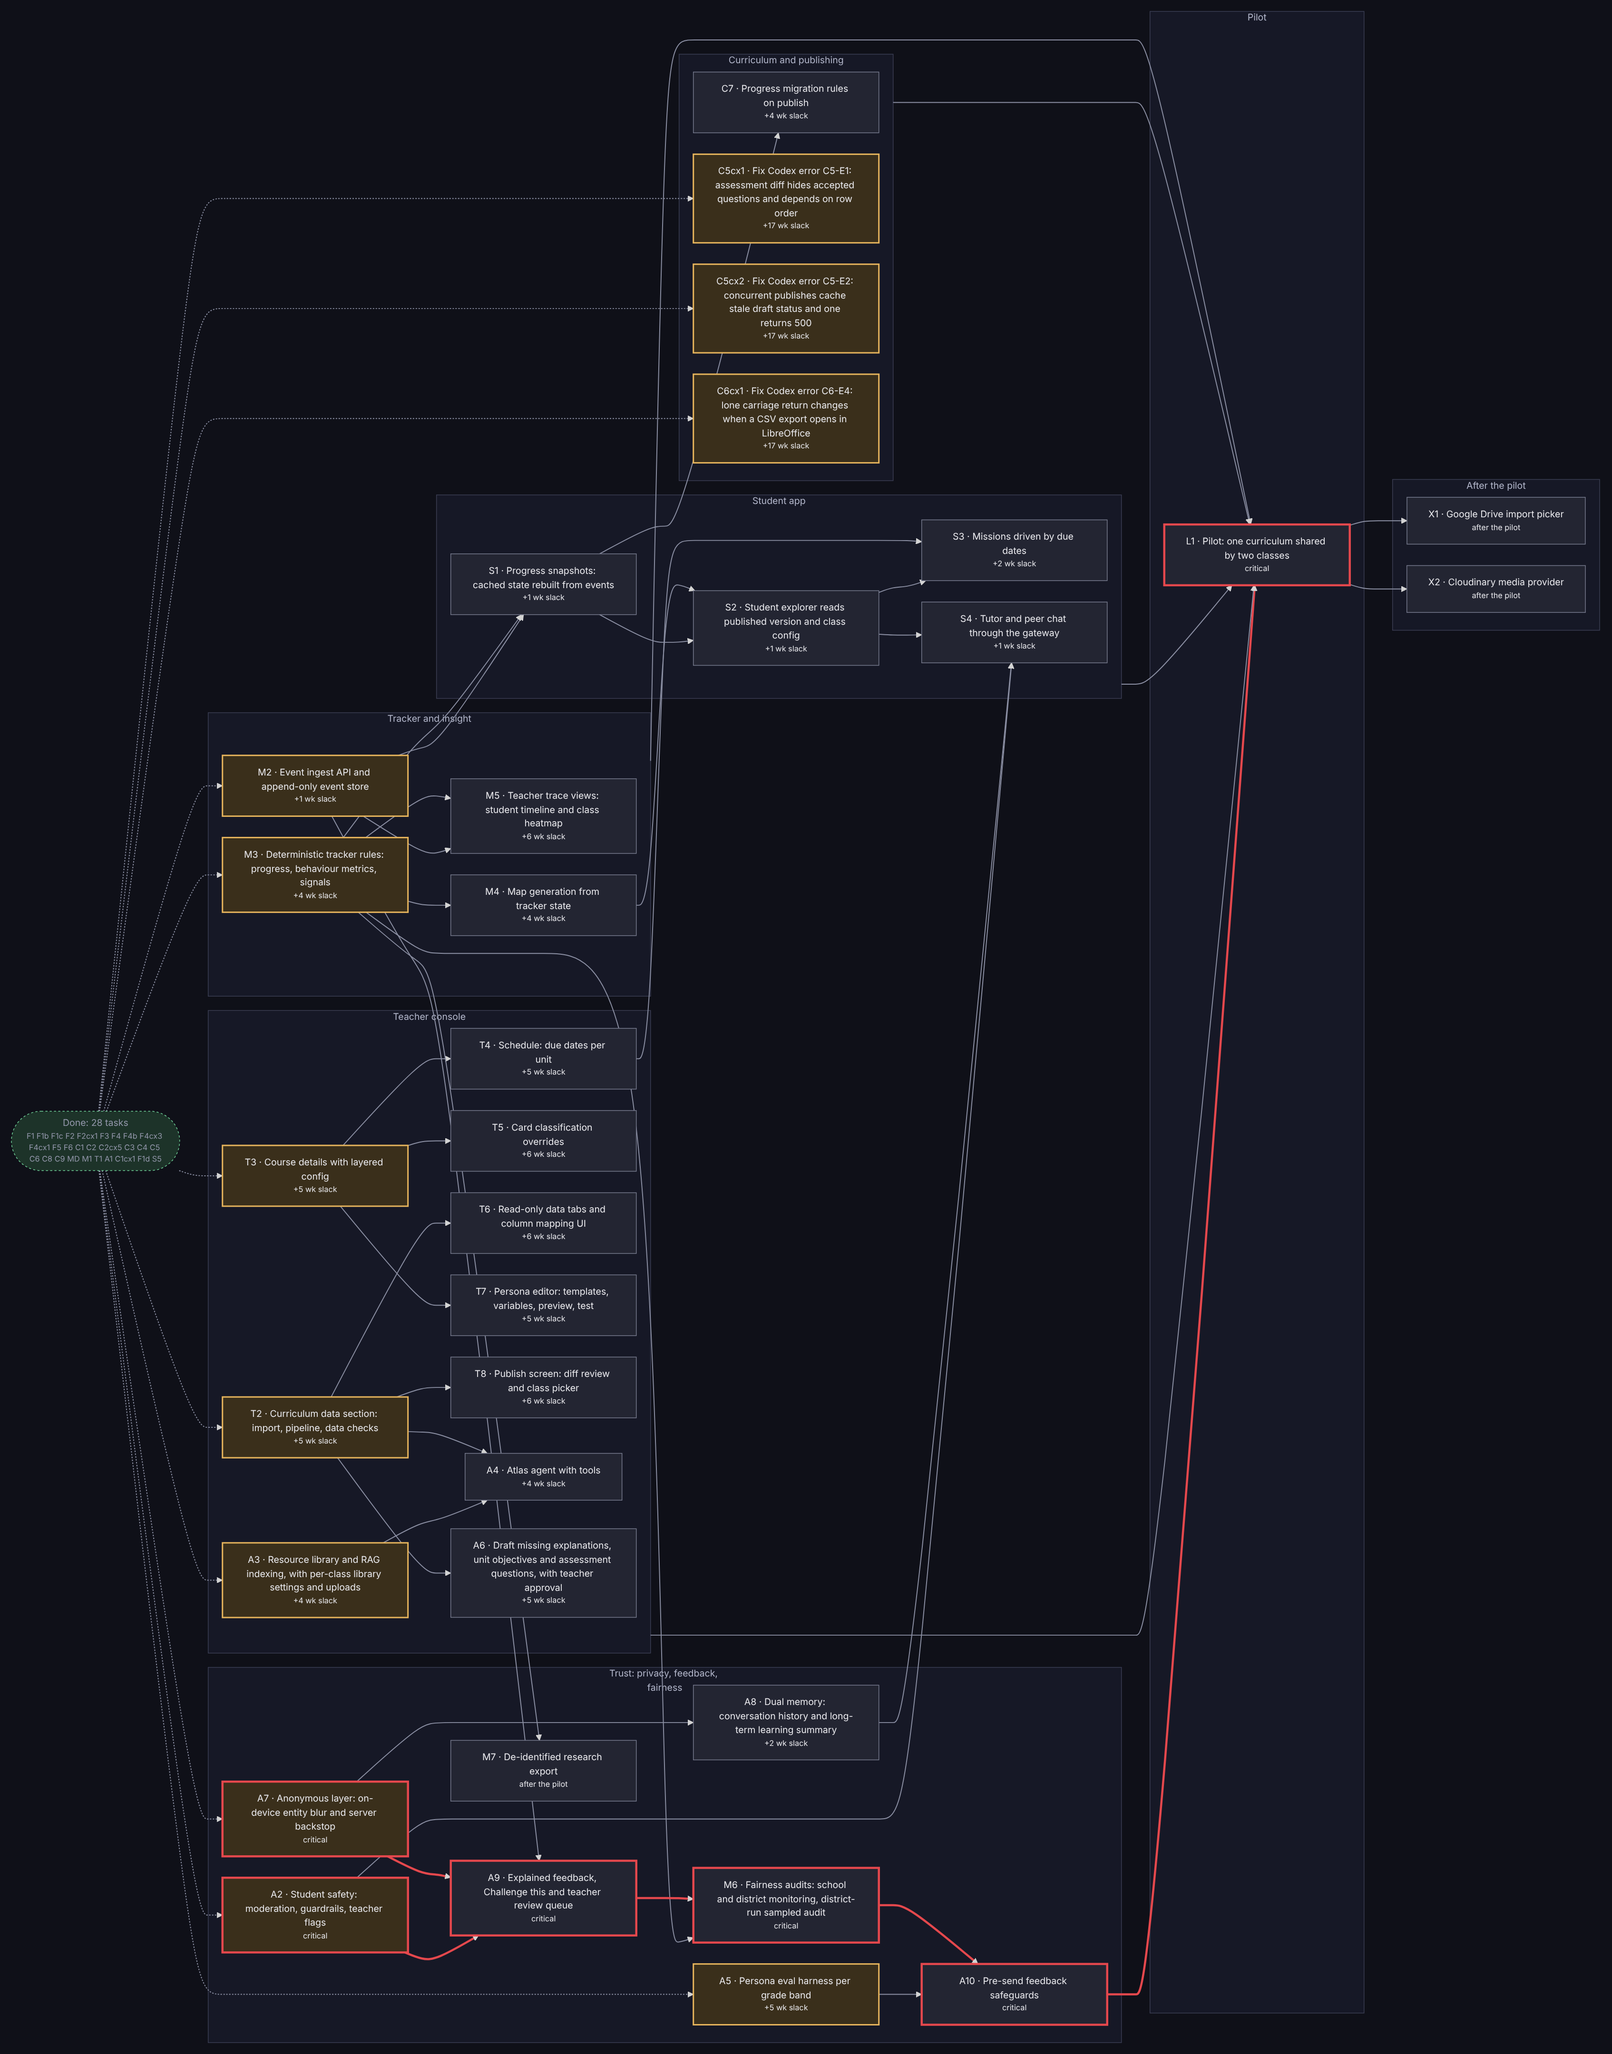
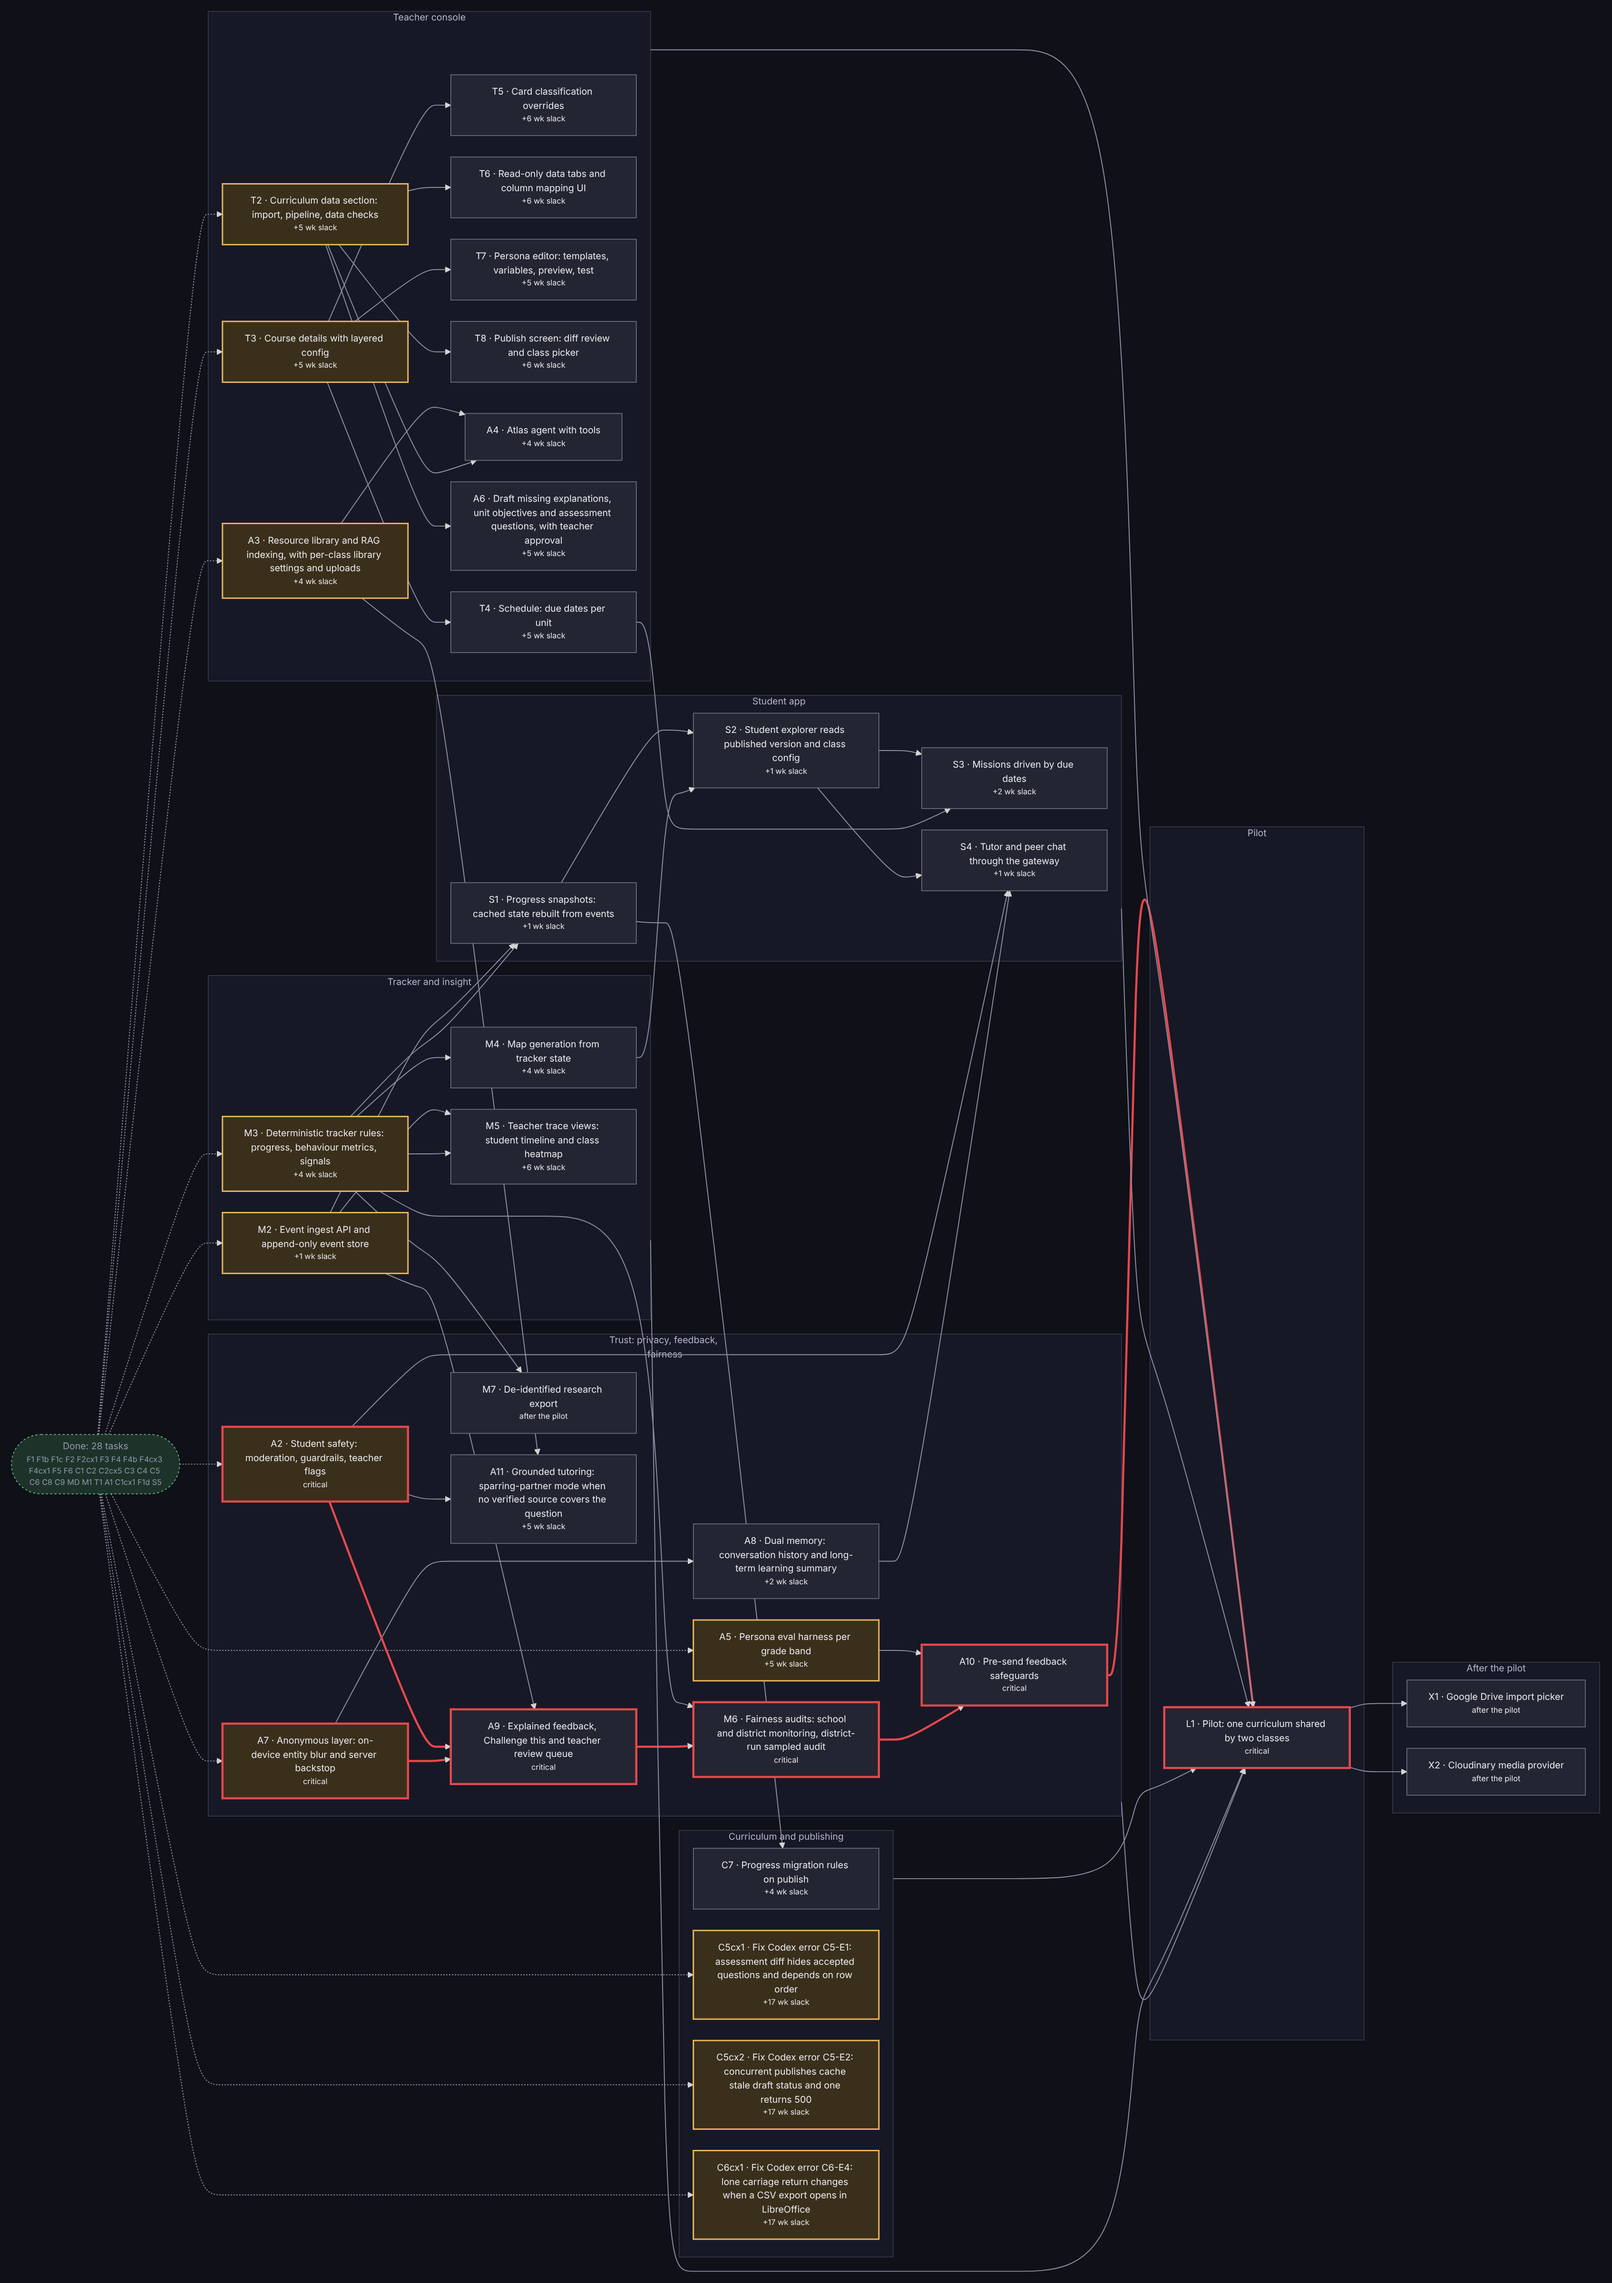
docs: blueprint and plan map reflect D31/D32 revisions, D35 and A11
Claude-Session: https://claude.ai/code/session_017xAqLcBw3ZrNAbTTGfVg5K

diff --git a/docs/idea-map-blueprint.html b/docs/idea-map-blueprint.html
@@ -170,10 +170,11 @@ select { font: 12px var(--font-body); color: var(--text); background: var(--surf
           <tr><td>Two memories (D28)</td><td>Short-term is the conversation. Long-term keeps misconceptions, what helped, pace and up to five interest categories, never feelings, family or health.</td></tr>
           <tr><td>Memory controls (D29)</td><td>Memory lasts while the student is enrolled. The student can see, delete or switch it off, and so can their teacher.</td></tr>
           <tr><td>Teacher ids on feedback (D30)</td><td>Teacher rulings and edits carry the teacher's pseudonymous id, so each teacher's examples weigh equally. Students never see it.</td></tr>
-          <tr><td>Teaching materials kept (D31)</td><td>Library documents and class uploads hold no student data, so the original files and passages are kept: updated or taken out of use, never deleted. A new embedding vendor re-indexes from the stored files.</td></tr>
-          <tr><td>Safety flags are alerts (D32)</td><td>Idea Map alerts staff; it is not the school's record. A flag is deleted with its transcript (90 days by default), or 30 days after it is resolved, whichever comes first.</td></tr>
+          <tr><td>Tiered library (D31)</td><td>Official shared materials go to a kept, versioned vault: updated or taken out of use, never deleted, and re-indexed from the stored files if the embedding vendor changes. Teachers' class uploads are disposable: archived, deleted, or deleted with their class.</td></tr>
+          <tr><td>Safety flags are alerts (D32)</td><td>Idea Map alerts staff; it is not the school's record. A flag is deleted with its transcript (90 days by default), or after the district's early-deletion window once resolved (default: deleted on day 31), whichever comes first.</td></tr>
           <tr><td>On-device name model (D33)</td><td>An ML name-recognition model on the device finds names and places from sentence context, so no class roster ever reaches a student device. Pattern rules still catch contact details.</td></tr>
           <tr><td>Teacher-approved evals (D34)</td><td>Persona evals are judged against replies teachers have approved, a living set of evidence. How approvals follow template versions is still open.</td></tr>
+          <tr><td>Sparring partner, not oracle (D35)</td><td>No internet. When the class's verified materials don't cover a question, Ms. Ivy states no facts of her own; she says so and guides the student's reasoning with questions instead.</td></tr>
         </tbody>
       </table></div>
     </div>
@@ -313,8 +314,8 @@ select { font: 12px var(--font-body); color: var(--text); background: var(--surf
           <tr><td>AI memory</td><td>Learning facts and up to five interest categories; the student can view, delete or turn it off</td></tr>
           <tr><td>Fairness and research</td><td>Audits by school and district; race audit run by the district; research on de-identified data only</td></tr>
           <tr><td>Transcripts</td><td>Stored redacted, retention set per district (default 90 days), visible to the class teacher</td></tr>
-          <tr><td>Safety flags</td><td>Alerts to the teacher and admin, not the school's record; deleted with the transcript or 30 days after resolution, whichever is first</td></tr>
-          <tr><td>Teaching materials</td><td>No student data; kept permanently, outside the student delete path</td></tr>
+          <tr><td>Safety flags</td><td>Alerts to the teacher and admin, not the school's record; deleted with the transcript, or after the district's early-deletion window once resolved (default day 31)</td></tr>
+          <tr><td>Teaching materials</td><td>Official vault kept permanently; class uploads kept with the class; both outside the student delete path</td></tr>
           <tr><td>Access</td><td>Admin, author, teacher and student roles; row-level security per org; audit log on config changes and publishes</td></tr>
           <tr><td>Sign-in</td><td>Google Workspace for Education, Clever or ClassLink; rosters imported from OneRoster CSV</td></tr>
         </tbody>
@@ -330,6 +331,7 @@ select { font: 12px var(--font-body); color: var(--text); background: var(--surf
           <tr><td>First school</td><td>Which sign-in and rostering provider, transcript retention period and hosting region?</td></tr>
           <tr><td>Embedding model</td><td>Which model the library search uses. Changing it later re-indexes from the stored originals, with no re-upload.</td></tr>
           <tr><td>Privacy layer</td><td>Check the design against the SoulSpeak paper; choose which on-device name model to use, and measure it on children's writing.</td></tr>
+          <tr><td>Verified sources</td><td>Should a teacher's class uploads ground the tutor's factual answers, or only the curriculum and the official vault?</td></tr>
           <tr><td>Eval approvals</td><td>How teacher-approved eval replies are tagged to persona template versions, so old approvals don't clash with new templates.</td></tr>
           <tr><td>Scale-out</td><td>Sign-in state and rate limits are per server process until the app runs on several servers.</td></tr>
         </tbody>
@@ -375,7 +377,7 @@ select { font: 12px var(--font-body); color: var(--text); background: var(--surf
 
 <script>
 const PLAN = {
- "snapshot": "2026-10-28 03:00 UTC",
+ "snapshot": "2026-10-28 03:30 UTC",
  "phases": [
   {
    "id": "F",
@@ -942,7 +944,8 @@ const PLAN = {
     "S5",
     "C5cx1",
     "C5cx2",
-    "C6cx1"
+    "C6cx1",
+    "A11"
    ],
    "status": "todo",
    "owner": null
@@ -1102,6 +1105,16 @@ const PLAN = {
    ],
    "status": "todo",
    "placeholder": true
+  },
+  {
+   "id": "A11",
+   "title": "Grounded tutoring: sparring-partner mode when no verified source covers the question",
+   "size": 1,
+   "deps": [
+    "A2",
+    "A3"
+   ],
+   "status": "todo"
   }
  ]
 };
@@ -1142,7 +1155,7 @@ show(startView);
 const NS = "http://www.w3.org/2000/svg";
 // Lanes group open work by what it delivers, in priority order (same as docs/PLAN.md).
 const LANES = [
-  ["Trust: privacy, feedback, fairness", ["A1", "A2", "A5", "A7", "A8", "A9", "A10", "M6", "M7"]],
+  ["Trust: privacy, feedback, fairness", ["A1", "A2", "A5", "A7", "A8", "A9", "A10", "A11", "M6", "M7"]],
   ["Tracker and insight", ["M1", "M2", "M3", "M4", "M5"]],
   ["Curriculum and publishing", ["F6", "C5", "C6", "C7"]],
   ["Teacher console", ["T1", "T2", "T3", "T4", "T5", "T6", "T7", "T8", "A3", "A4", "A6"]],

diff --git a/docs/PLAN.md b/docs/PLAN.md
@@ -113,6 +113,7 @@ flowchart LR
     A10["A10 · Pre-send feedback safeguards<br/><small>critical</small>"]
     M6["M6 · Fairness audits: school and district monitoring, district-run sampled audit<br/><small>critical</small>"]
     M7["M7 · De-identified research export<br/><small>after the pilot</small>"]
+    A11["A11 · Grounded tutoring: sparring-partner mode when no verified source covers the question<br/><small>+5 wk slack</small>"]
   end
   subgraph tracker["Tracker and insight"]
     direction LR
@@ -156,9 +157,6 @@ flowchart LR
     direction LR
     X1["X1 · Google Drive import picker<br/><small>after the pilot</small>"]
     X2["X2 · Cloudinary media provider<br/><small>after the pilot</small>"]
-  end
-  subgraph other["Other"]
-    A11["A11 · Grounded tutoring: sparring-partner mode when no verified source covers the question<br/><small>+5 wk slack</small>"]
   end
   DONE -.-> M2
   DONE -.-> M3
@@ -210,7 +208,7 @@ flowchart LR
   student --> L1
   curriculum --> L1
   tracker --> L1
-  other --> L1
+  trust --> L1
   linkStyle default stroke:#8b8fa3,stroke-width:1.3px
   linkStyle 32,36,38,40,42 stroke:#e5484d,stroke-width:3px
   style trust fill:#161826,stroke:#3a3d52,color:#b2b6ca
